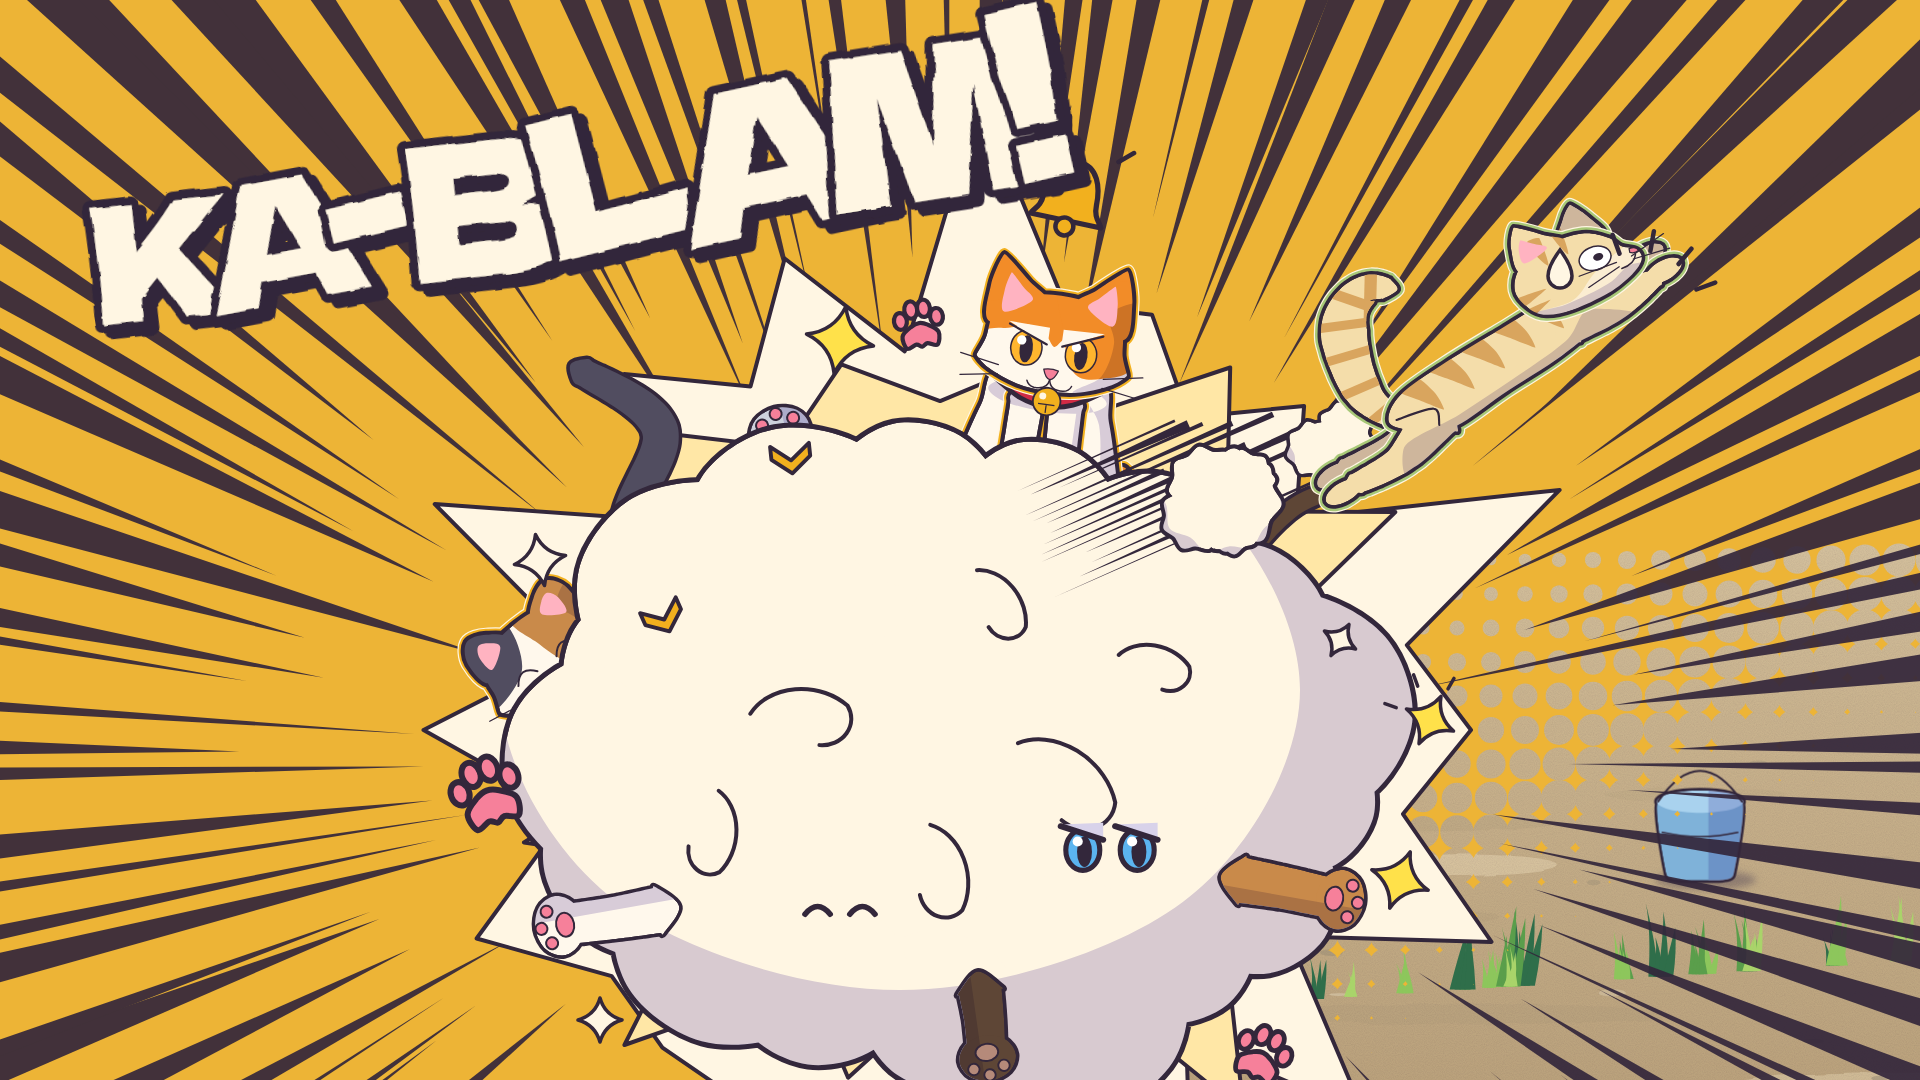
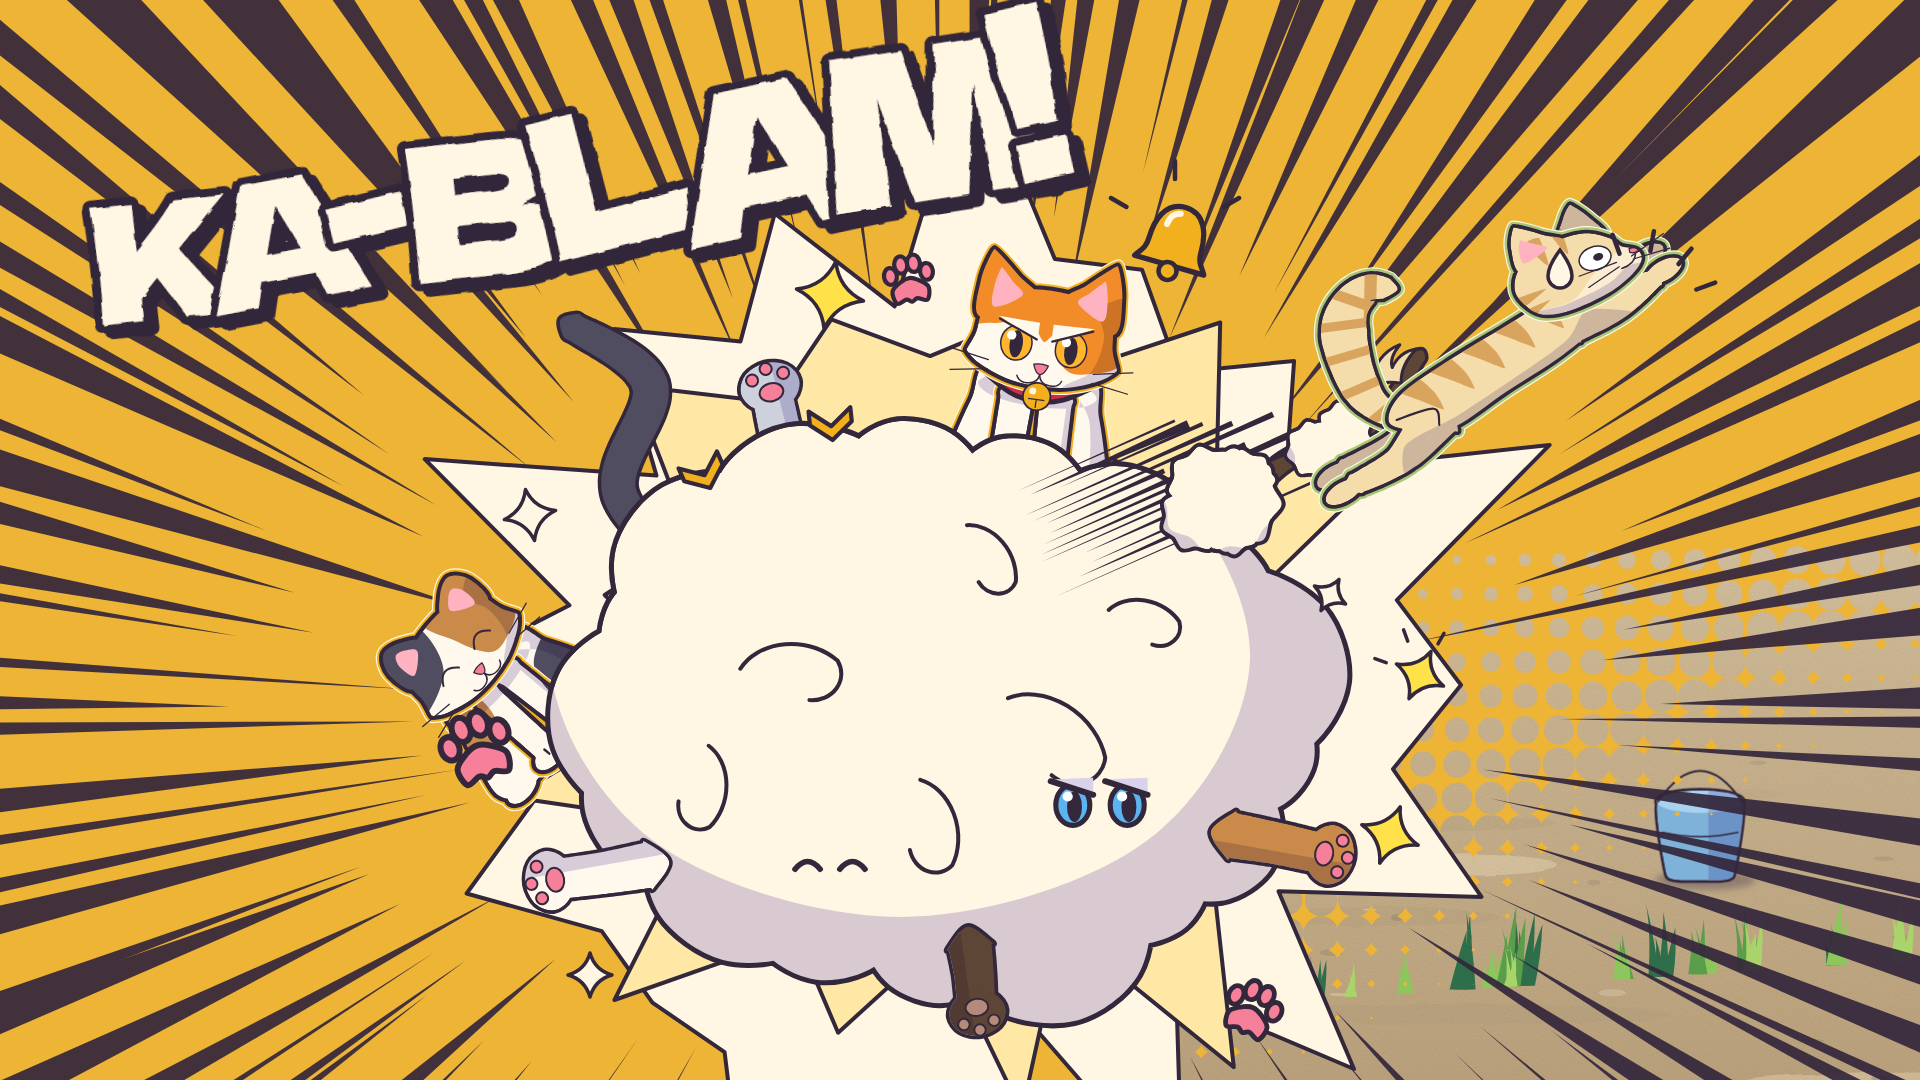
docs: preview frames and GDD compile in progress
Claude-Session: https://claude.ai/code/session_01K9BzCtu5ca2nRxDXecreHZ

diff --git a/design/previews/04-combat-pile-on.html b/design/previews/04-combat-pile-on.html
@@ -22,7 +22,7 @@
 const K = Kit, C = K.C, W = 1920, H = 1080, ink = C.ink, gold = C.gold, cream = C.cream;
 const s = [];
 const pt = (p) => p[0].toFixed(1) + ' ' + p[1].toFixed(1);
-const cc = { x: 960, y: 760 };     // cloud centre
+const cc = { x: 950, y: 715 };     // cloud centre
 
 /* ---------- the Lot, glimpsed under the closing halftone wipe (lower right) ---------- */
 const HZ = 150, F = 1350, CH = 3.6, CX = 960, P = (X, Y, d) => [CX + X * F / d, HZ + (CH - Y) * F / d];
@@ -66,15 +66,15 @@ s.push(tailOut([[cc.x - 230, cc.y - 120], [cc.x - 330, cc.y - 220], [cc.x - 300,
 s.push(tailOut([[cc.x + 250, cc.y - 160], [cc.x + 330, cc.y - 250], [cc.x + 420, cc.y - 290], [cc.x + 470, cc.y - 360]], [20, 18, 16, 12], COAT.kin.point));    // Kinako's whip, bottle-brushed
 s.push(coatPaw(cc.x - 150, cc.y - 200, -14, 120, COAT.gin.fur, C.pad, 1.0));    // Gin's paw, raised high
 // heads popping out of the boil (bodies hidden by the cloud drawn over them)
-s.push(`<g transform="translate(${cc.x + 70} ${cc.y - 240}) rotate(8)">${K.cat({ ...K.CAST.mikan, pose: 'front-sit', expr: 'angry', outline: 'gold', x: 0, y: 0, scale: 2.3, shadow: false, lw: 4 })}</g>`);
-s.push(`<g transform="translate(${cc.x - 330} ${cc.y + 10}) rotate(-38)">${K.cat({ ...K.CAST.goofball, pose: 'front-sit', expr: 'happy', outline: 'gold', x: 0, y: 0, scale: 1.9, shadow: false, lw: 4 })}</g>`);
+s.push(`<g transform="translate(${cc.x + 70} ${cc.y - 200}) rotate(8)">${K.cat({ ...K.CAST.mikan, pose: 'front-sit', expr: 'angry', outline: 'gold', x: 0, y: 0, scale: 2.3, shadow: false, lw: 4 })}</g>`);
+s.push(`<g transform="translate(${cc.x - 380} ${cc.y + 30}) rotate(-50)">${K.cat({ ...K.CAST.goofball, pose: 'front-sit', expr: 'happy', outline: 'gold', x: 0, y: 0, scale: 1.9, shadow: false, lw: 4 })}</g>`);
 s.push(pomTail(cc.x + 330, cc.y + 10, 40));                                                                   // Mikan's pom tail
 
 /* ---------- THE CLOUD: big scalloped cel, Paper Cream, lavender shade, 5 px Ink line ---------- */
-{ const R = K.rng(23), parts = [{ d: K.ell(cc.x, cc.y, 300, 230), fill: cream }];
+{ const R = K.rng(23), parts = [{ d: K.ell(cc.x, cc.y, 265, 200), fill: cream }];
   // classic scalloped brawl cloud: a ring of fat puffs round an oval core
-  const n = 17; for (let i = 0; i < n; i++) { const a = i / n * Math.PI * 2 + 0.15, r = 82 + R() * 46, ex = 318 + R() * 26, ey = 238 + R() * 20; parts.push({ d: K.ell(cc.x + Math.cos(a) * ex, cc.y + Math.sin(a) * ey, r, r * 0.92, R() * 40), fill: cream }); }
-  const lit = K.ell(cc.x - 60, cc.y - 70, 400, 300);
+  const n = 17; for (let i = 0; i < n; i++) { const a = i / n * Math.PI * 2 + 0.15, r = 72 + R() * 40, ex = 280 + R() * 22, ey = 206 + R() * 18; parts.push({ d: K.ell(cc.x + Math.cos(a) * ex, cc.y + Math.sin(a) * ey, r, r * 0.92, R() * 40), fill: cream }); }
+  const lit = K.ell(cc.x - 50, cc.y - 60, 350, 262);
   s.push(K.celGroup({ parts, shade: { d: `M${cc.x - 900} ${cc.y - 900}h1800v1800h-1800Z` + lit, evenodd: true } }, { lw: 5, ol: K.OUTLINES.ink }));
   // interior boil curls
   let curls = ''; [[-150, -40, 60, 0.3], [110, 30, 70, 2.1], [-20, 120, 56, 4], [200, -90, 44, 1], [-250, 80, 50, 5], [40, -150, 46, 3]].forEach(([dx, dy, r, a]) => { curls += `<path d="M${cc.x + dx - r} ${cc.y + dy}a${r} ${r * 0.8} 0 0 1 ${r * 1.6} ${-r * 0.3}a${r * 0.5} ${r * 0.45} 0 0 1 ${-r * 0.4} ${r * 0.7}" fill="none" stroke="${ink}" stroke-width="4" stroke-linecap="round" transform="rotate(${a * 20} ${cc.x + dx} ${cc.y + dy})"/>`; });
@@ -91,9 +91,9 @@ s.push(padGlyph(cc.x - 470, cc.y + 40, 2.0, -20) + padGlyph(cc.x + 300, cc.y + 3
 // a flying tuft (Togemaru's cream tabby fur)
 s.push(`<g transform="translate(${cc.x + 420} ${cc.y - 330}) rotate(-30)">${K.inked('M0 0q20 -24 46 -20q-16 6 -18 16q14 -10 30 -4q-22 6 -30 22q-12 -10 -28 -14z', COAT.toge.fur, 3)}</g>`);
 // chevron ticks + the controlled cat's bell bobbing on top
-s.push(chevron(cc.x - 300, cc.y - 150, 1.3, -24) + chevron(cc.x - 170, cc.y - 310, 1.3, -6) + chevron(cc.x + 300, cc.y - 260, 1.3, 18));
-s.push(bellTick(cc.x + 110, cc.y - 560, 1.5, 12));
-s.push(K.ticks({ x: cc.x + 110, y: cc.y - 570, r: 56, n: 3, a0: -150, a1: -30, len: 18, lw: 4.5 }));
+s.push(chevron(cc.x - 250, cc.y - 250, 1.4, -24) + chevron(cc.x - 120, cc.y - 300, 1.4, -6) + chevron(cc.x + 300, cc.y - 230, 1.4, 18));
+s.push(bellTick(cc.x + 225, cc.y - 470, 1.5, 16));
+s.push(K.ticks({ x: cc.x + 225, y: cc.y - 480, r: 56, n: 3, a0: -150, a1: -30, len: 18, lw: 4.5 }));
 
 /* ---------- Togemaru, ROUTED: the take smeared into a bolt, up and out to the right ---------- */
 const tg = { x: 1520, y: 400 };
